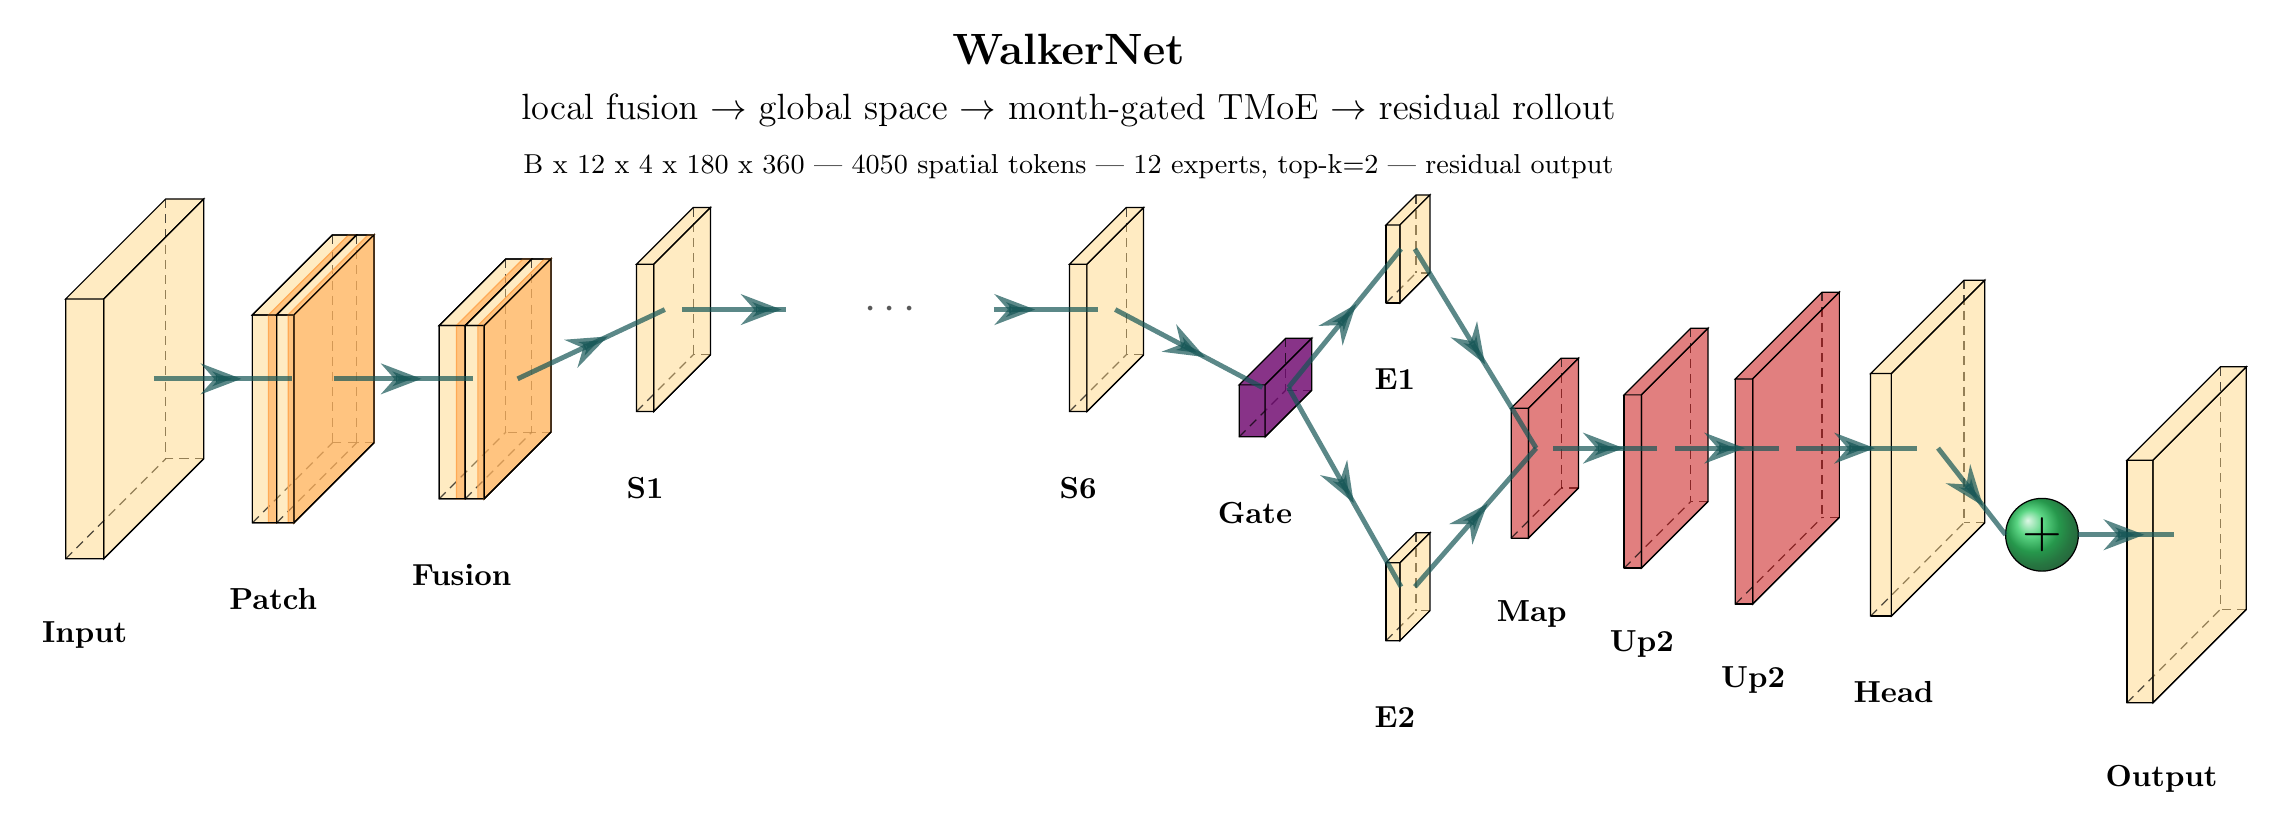
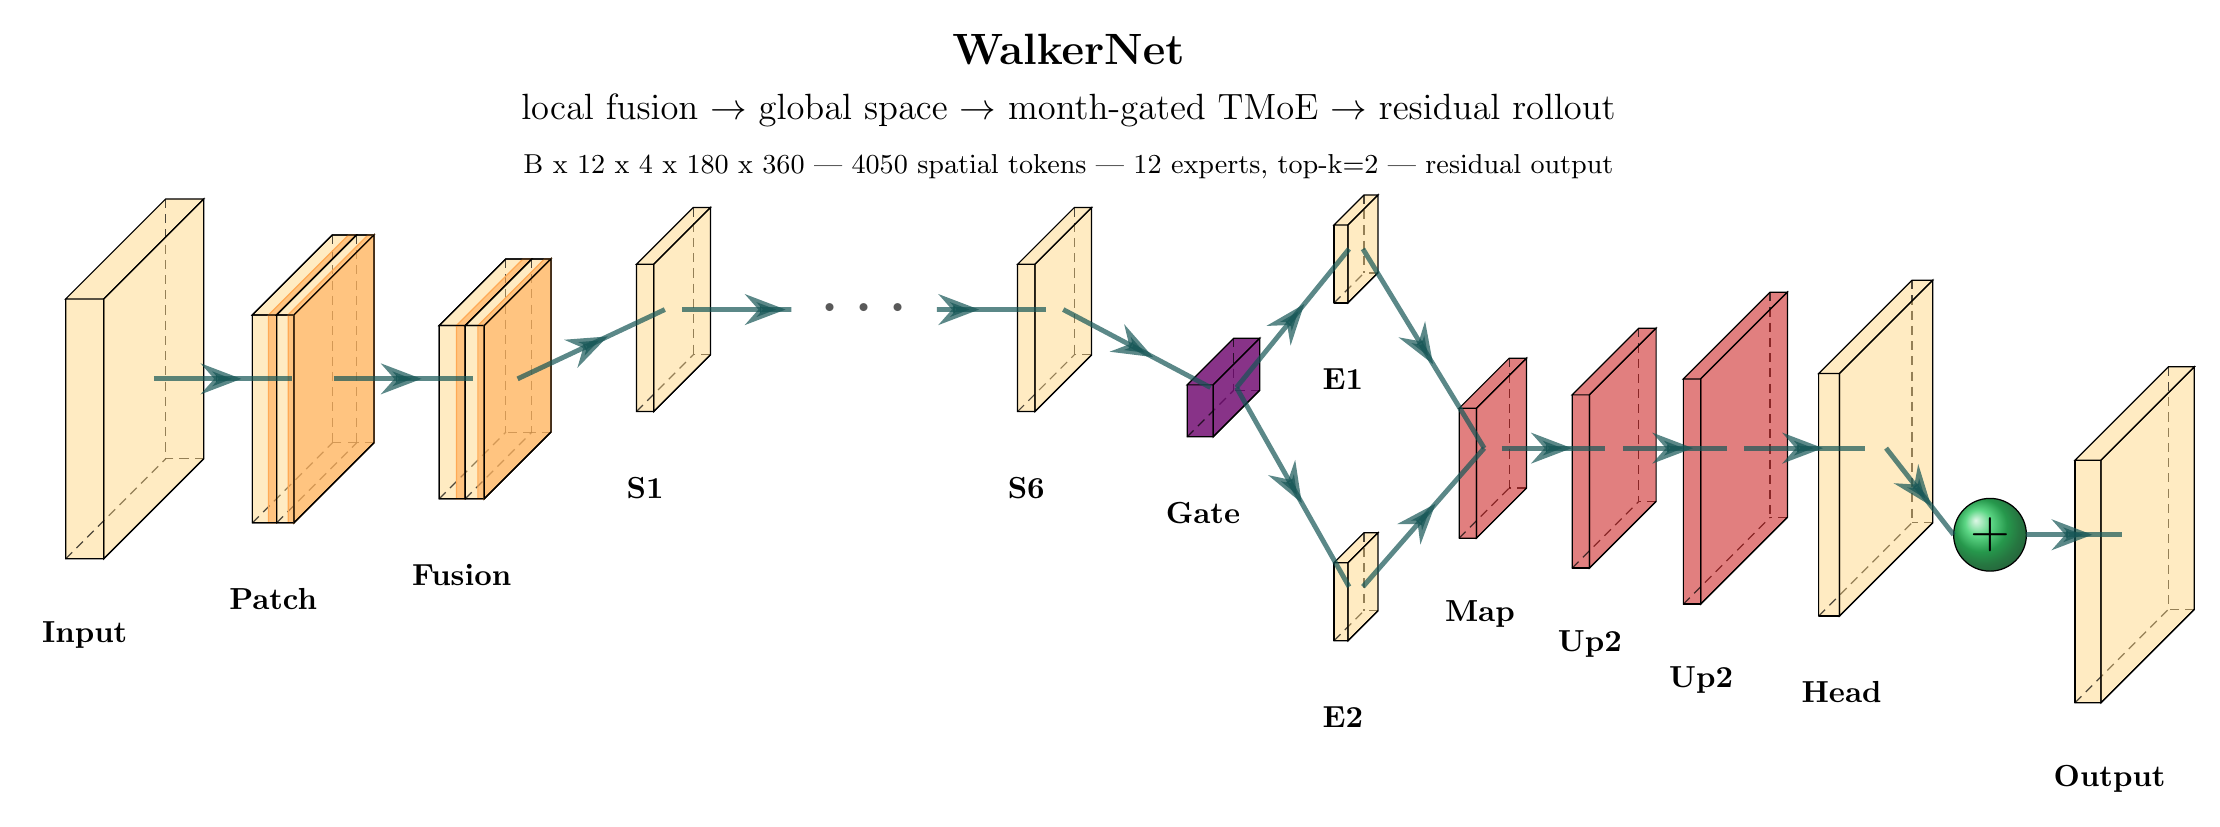
Tighten spatial gap and enlarge ellipsis

diff --git a/scripts/plotting/walkernet_plotneuralnet.py b/scripts/plotting/walkernet_plotneuralnet.py
@@ -67,19 +67,19 @@ def main() -> None:
             width=1.0, height=8.5, depth=8.5, caption="S1",
         ),
         to_Conv(
-            "spatial6", s_filer="4050", n_filer="256", offset="(4.80,0,0)", to="(spatial1-east)",
+            "spatial6", s_filer="4050", n_filer="256", offset="(4.20,0,0)", to="(spatial1-east)",
             width=1.0, height=8.5, depth=8.5, caption="S6",
         ),
         to_connection("fusion", "spatial1"),
         # Break the spatial-stack connection into two physical line segments.
         # The gap behind the ellipsis is deliberately empty: no green line is
         # drawn beneath the omitted S2--S5 blocks.
-        r"\coordinate (spatial-gap-l) at ($(spatial1-east)!0.25!(spatial6-west)$);",
-        r"\coordinate (spatial-gap-r) at ($(spatial1-east)!0.75!(spatial6-west)$);",
+        r"\coordinate (spatial-gap-l) at ($(spatial1-east)!0.30!(spatial6-west)$);",
+        r"\coordinate (spatial-gap-r) at ($(spatial1-east)!0.70!(spatial6-west)$);",
         r"\coordinate (spatial-gap) at ($(spatial1-east)!0.50!(spatial6-west)$);",
         r"\draw [connection] (spatial1-east) -- node[pos=0.78] {\midarrow} (spatial-gap-l);",
         r"\draw [connection] (spatial-gap-r) -- node[pos=0.22] {\midarrow} (spatial6-west);",
-        r"\node[font=\Large\bfseries,text=black!65] at (spatial-gap) {$\cdots$};",
+        r"\node[font=\Huge\bfseries,text=black!65] at (spatial-gap) {$\cdots$};",
         # Month gate and top-2 routing.
         to_SoftMax("gate", s_filer="month", offset="(1.7,-0.9,0)", to="(spatial6-east)", width=1.5, height=3.0, depth=7.0, caption="Gate"),
         to_connection("spatial6", "gate"),

diff --git a/figures/walkernet_plotneuralnet.tex b/figures/walkernet_plotneuralnet.tex
@@ -71,7 +71,7 @@
         }
     };
 
-\pic[shift={(4.80,0,0)}] at (spatial1-east) 
+\pic[shift={(4.20,0,0)}] at (spatial1-east) 
     {Box={
         name=spatial6,
         caption=S6,
@@ -83,7 +83,7 @@
     };
 
 \draw [connection]  (fusion-east)    -- node {\midarrow} (spatial1-west);
-\coordinate (spatial-gap-l) at ($(spatial1-east)!0.25!(spatial6-west)$);\coordinate (spatial-gap-r) at ($(spatial1-east)!0.75!(spatial6-west)$);\coordinate (spatial-gap) at ($(spatial1-east)!0.50!(spatial6-west)$);\draw [connection] (spatial1-east) -- node[pos=0.78] {\midarrow} (spatial-gap-l);\draw [connection] (spatial-gap-r) -- node[pos=0.22] {\midarrow} (spatial6-west);\node[font=\Large\bfseries,text=black!65] at (spatial-gap) {$\cdots$};
+\coordinate (spatial-gap-l) at ($(spatial1-east)!0.30!(spatial6-west)$);\coordinate (spatial-gap-r) at ($(spatial1-east)!0.70!(spatial6-west)$);\coordinate (spatial-gap) at ($(spatial1-east)!0.50!(spatial6-west)$);\draw [connection] (spatial1-east) -- node[pos=0.78] {\midarrow} (spatial-gap-l);\draw [connection] (spatial-gap-r) -- node[pos=0.22] {\midarrow} (spatial6-west);\node[font=\Huge\bfseries,text=black!65] at (spatial-gap) {$\cdots$};
 \pic[shift={(1.7,-0.9,0)}] at (spatial6-east) 
     {Box={
         name=gate,
